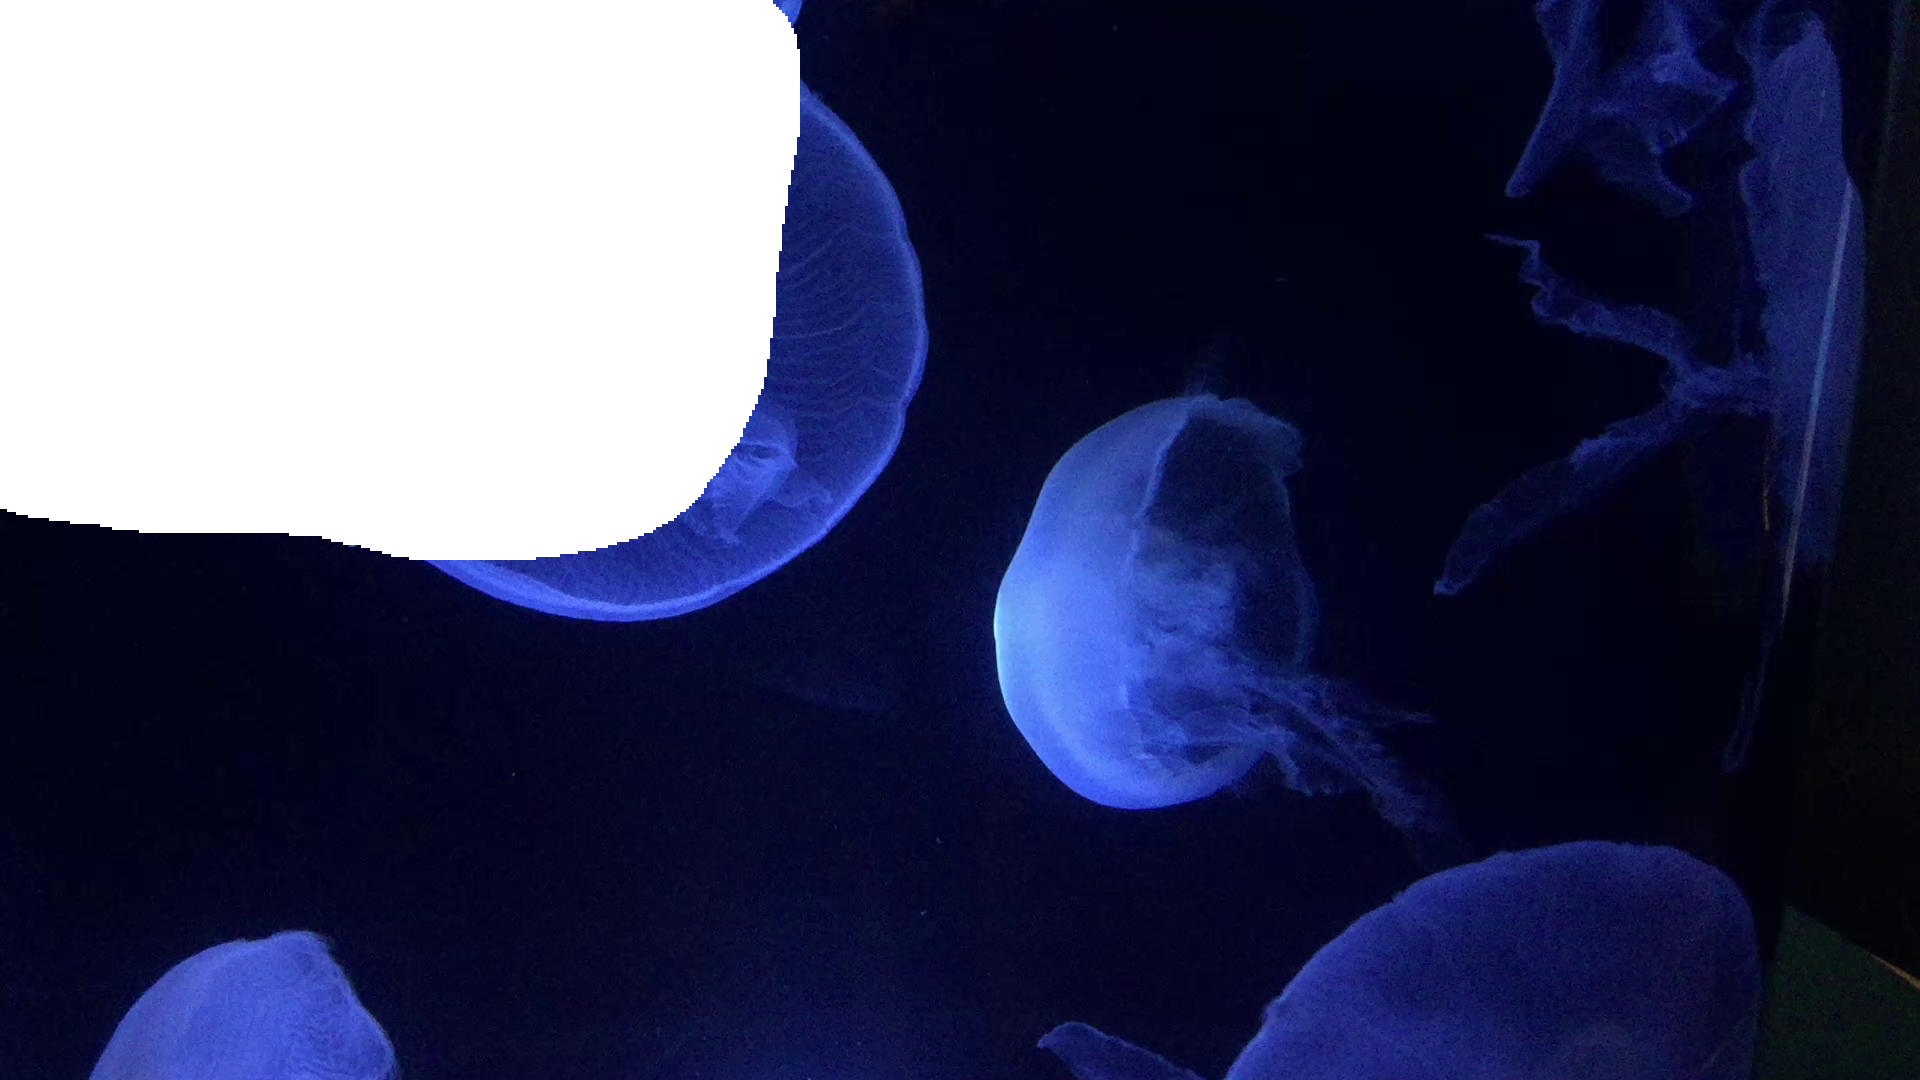
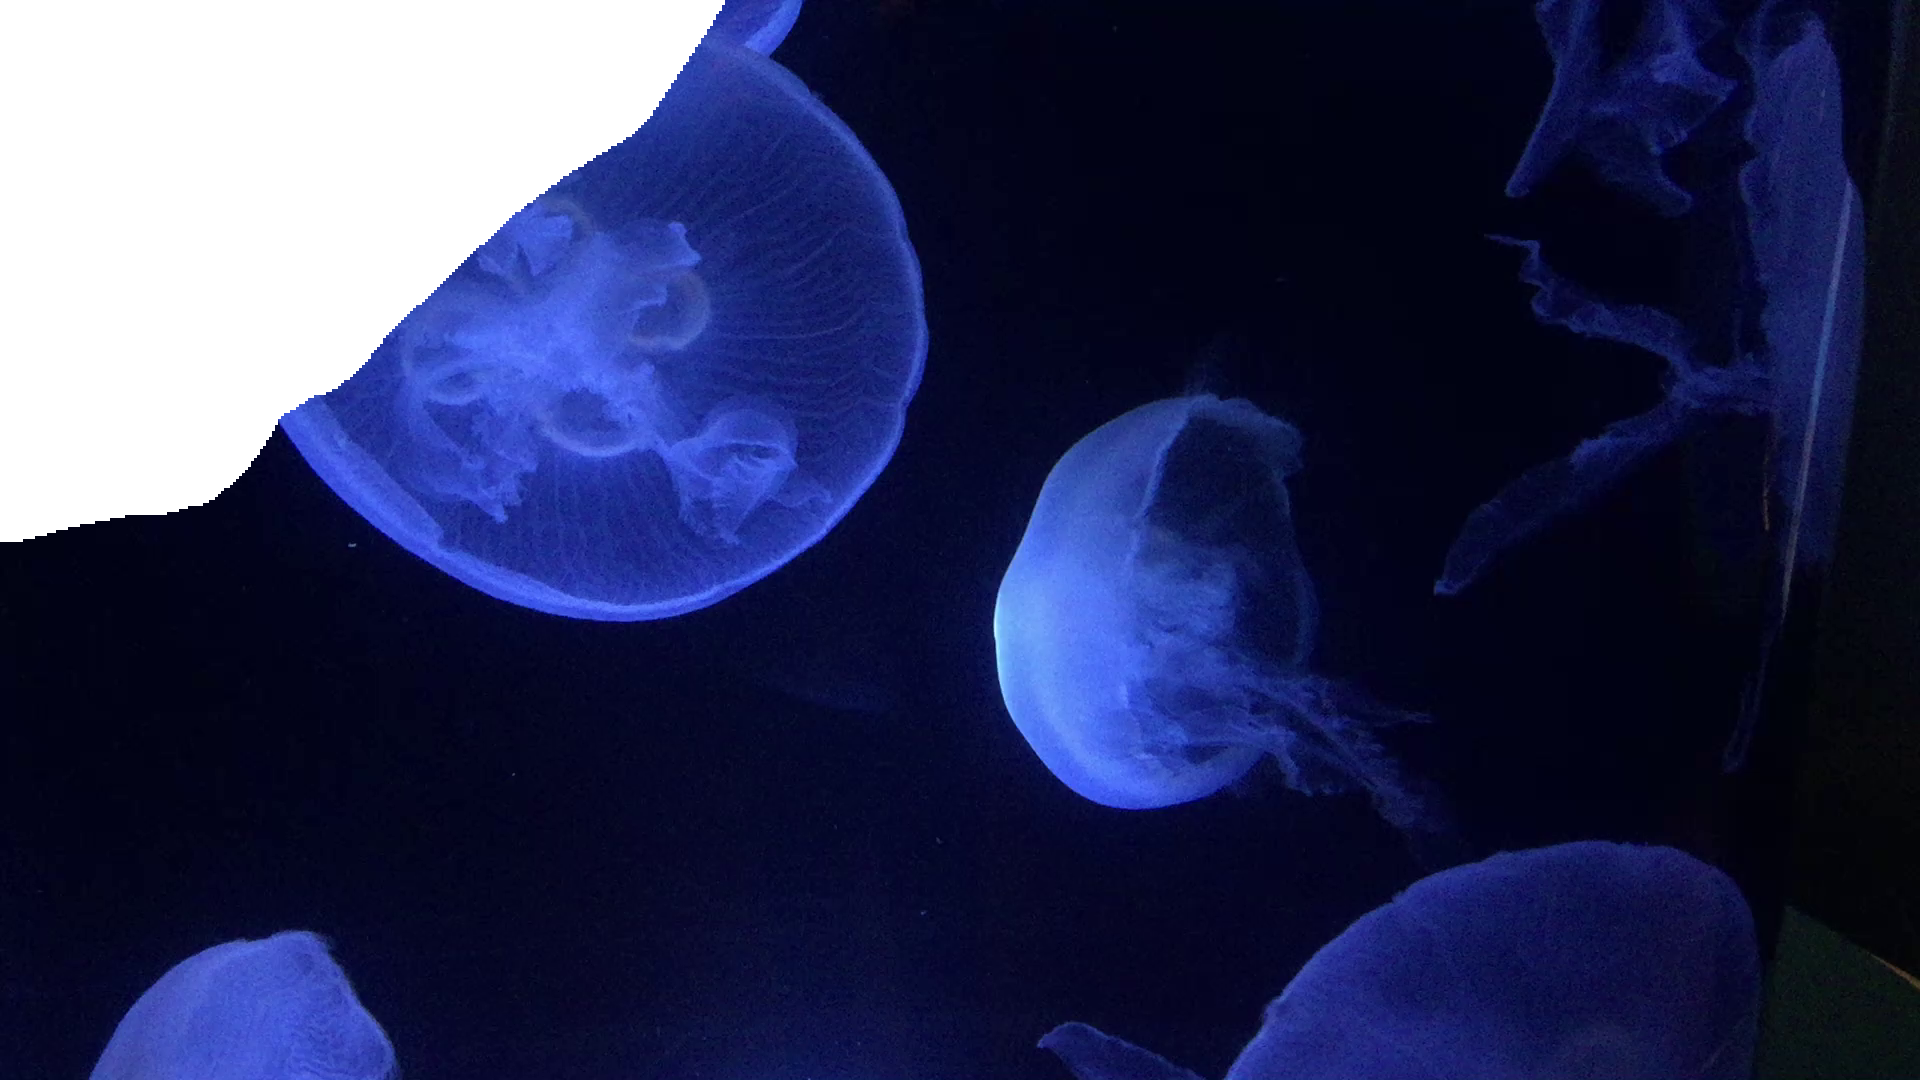
rebuilt and fixed cinemagraph bug

Changed region(s): [[0.0, 0.0, 0.4375, 0.5194]]

diff --git a/renderer/containers/cinemagraph/reducer.js b/renderer/containers/cinemagraph/reducer.js
@@ -1,10 +1,13 @@
 import { actionTypes } from "./actions";
-import renderMovingStill from "../../lib/cv/renderCinemagraph";
+import renderCinemagraph from "../../lib/cv/renderCinemagraph";
+import * as globalStyles from "../../globalStyles";
+import getOverlayMask from "../../lib/cv/getOverlayMask";
 
 const initialState = {
   undoStack: [],
   redoStack: [],
-  imgPath: "",
+  videoPath: "",
+  overlayPath: "",
   lc: null,
   tools: {},
   boundingRect: {},
@@ -20,7 +23,6 @@ export const cinemagraphReducer = (state = initialState, action) => {
       const videoHeight = 80 / aspect;
       vid.parentElement.setAttribute("style", `height: ${videoHeight}vw;`);
       var imageSize = { width: vid.videoWidth, height: vid.videoHeight };
-
       lc = LC.init(document.getElementsByClassName("literally core")[0], {
         imageSize: imageSize
       });
@@ -57,12 +59,12 @@ export const cinemagraphReducer = (state = initialState, action) => {
         videoHeight,
         boundingRect
       };
-    case actionTypes.SELECT_MOVING_STILL_IMAGE:
-      const imgPath = "file://" + action.files[0];
+    case actionTypes.SELECT_CINEMAGRAPH_VIDEO:
+      const videoPath = "file://" + action.files[0];
       console.log("VIDEOPATH: ", videoPath);
       return {
         ...state,
-        imgPath
+        videoPath
       };
     case actionTypes.ATTEMPT_PREVIEW_CINEMAGRAPH:
       // use cv to render an image mask to place over the video

diff --git a/renderer/pages/_document.js b/renderer/pages/_document.js
@@ -1,5 +1,5 @@
 import React from 'react'
-import Document, { Head, Main, NextScript } from 'next/document'
+import Document, { Main, NextScript } from 'next/document'
 
 export default class MyDocument extends Document {
   static getInitialProps ({ renderPage }) {
@@ -10,9 +10,6 @@ export default class MyDocument extends Document {
   render () {
     return (
       <html>
-        <Head>
-          <link rel='stylesheet' href='/static/css/bundle.css' />
-        </Head>
         <body style={{overflow: 'hidden', height: '100vh'}}>
           {this.props.customValue}
           <Main />

diff --git a/main/main.js b/main/main.js
@@ -24,7 +24,7 @@ function createWindow() {
   });
 
   // and load the index.html of the app.
-  const devPath = "http://localhost:8000/movingStill";
+  const devPath = "http://localhost:8000/mainMenu";
   const prodPath = path.resolve("renderer/out/start/index.html");
   const entry = isDev ? devPath : "file://" + prodPath;
 

diff --git a/renderer/containers/cinemagraph/actions.js b/renderer/containers/cinemagraph/actions.js
@@ -16,6 +16,7 @@ export const initializeCinemagraphCanvas = () => {
 }
 
 export const selectCinemagraphVideo = (files) => {
+	console.log("IN THE ACTION: ", files);
 	return { type: actionTypes.SELECT_CINEMAGRAPH_VIDEO, files: files };
 }
 
